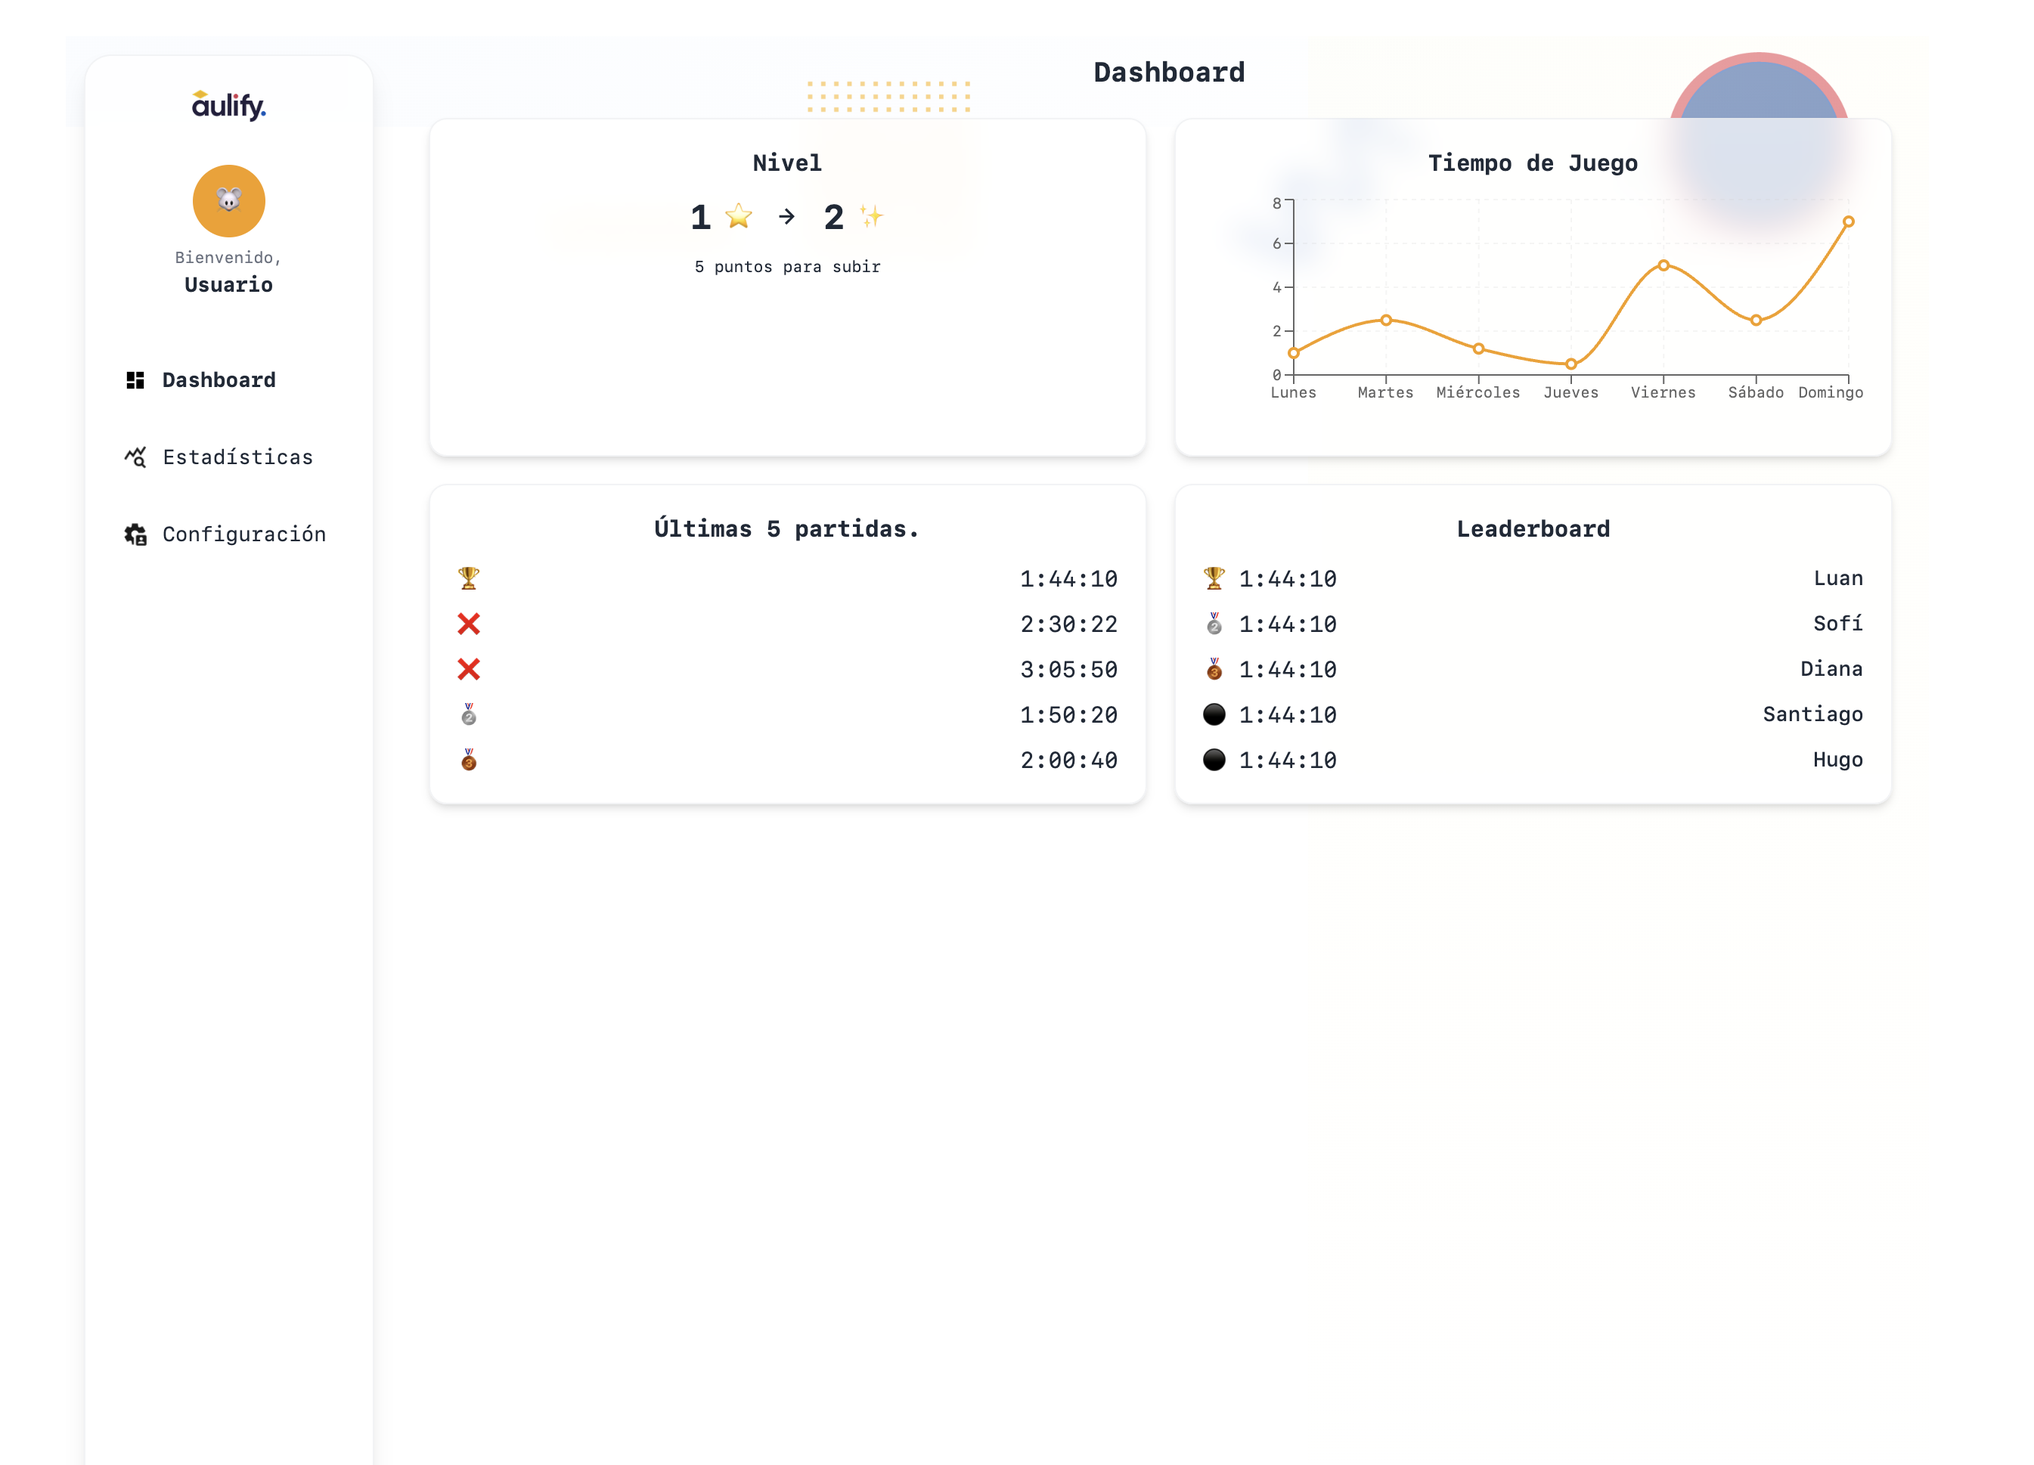
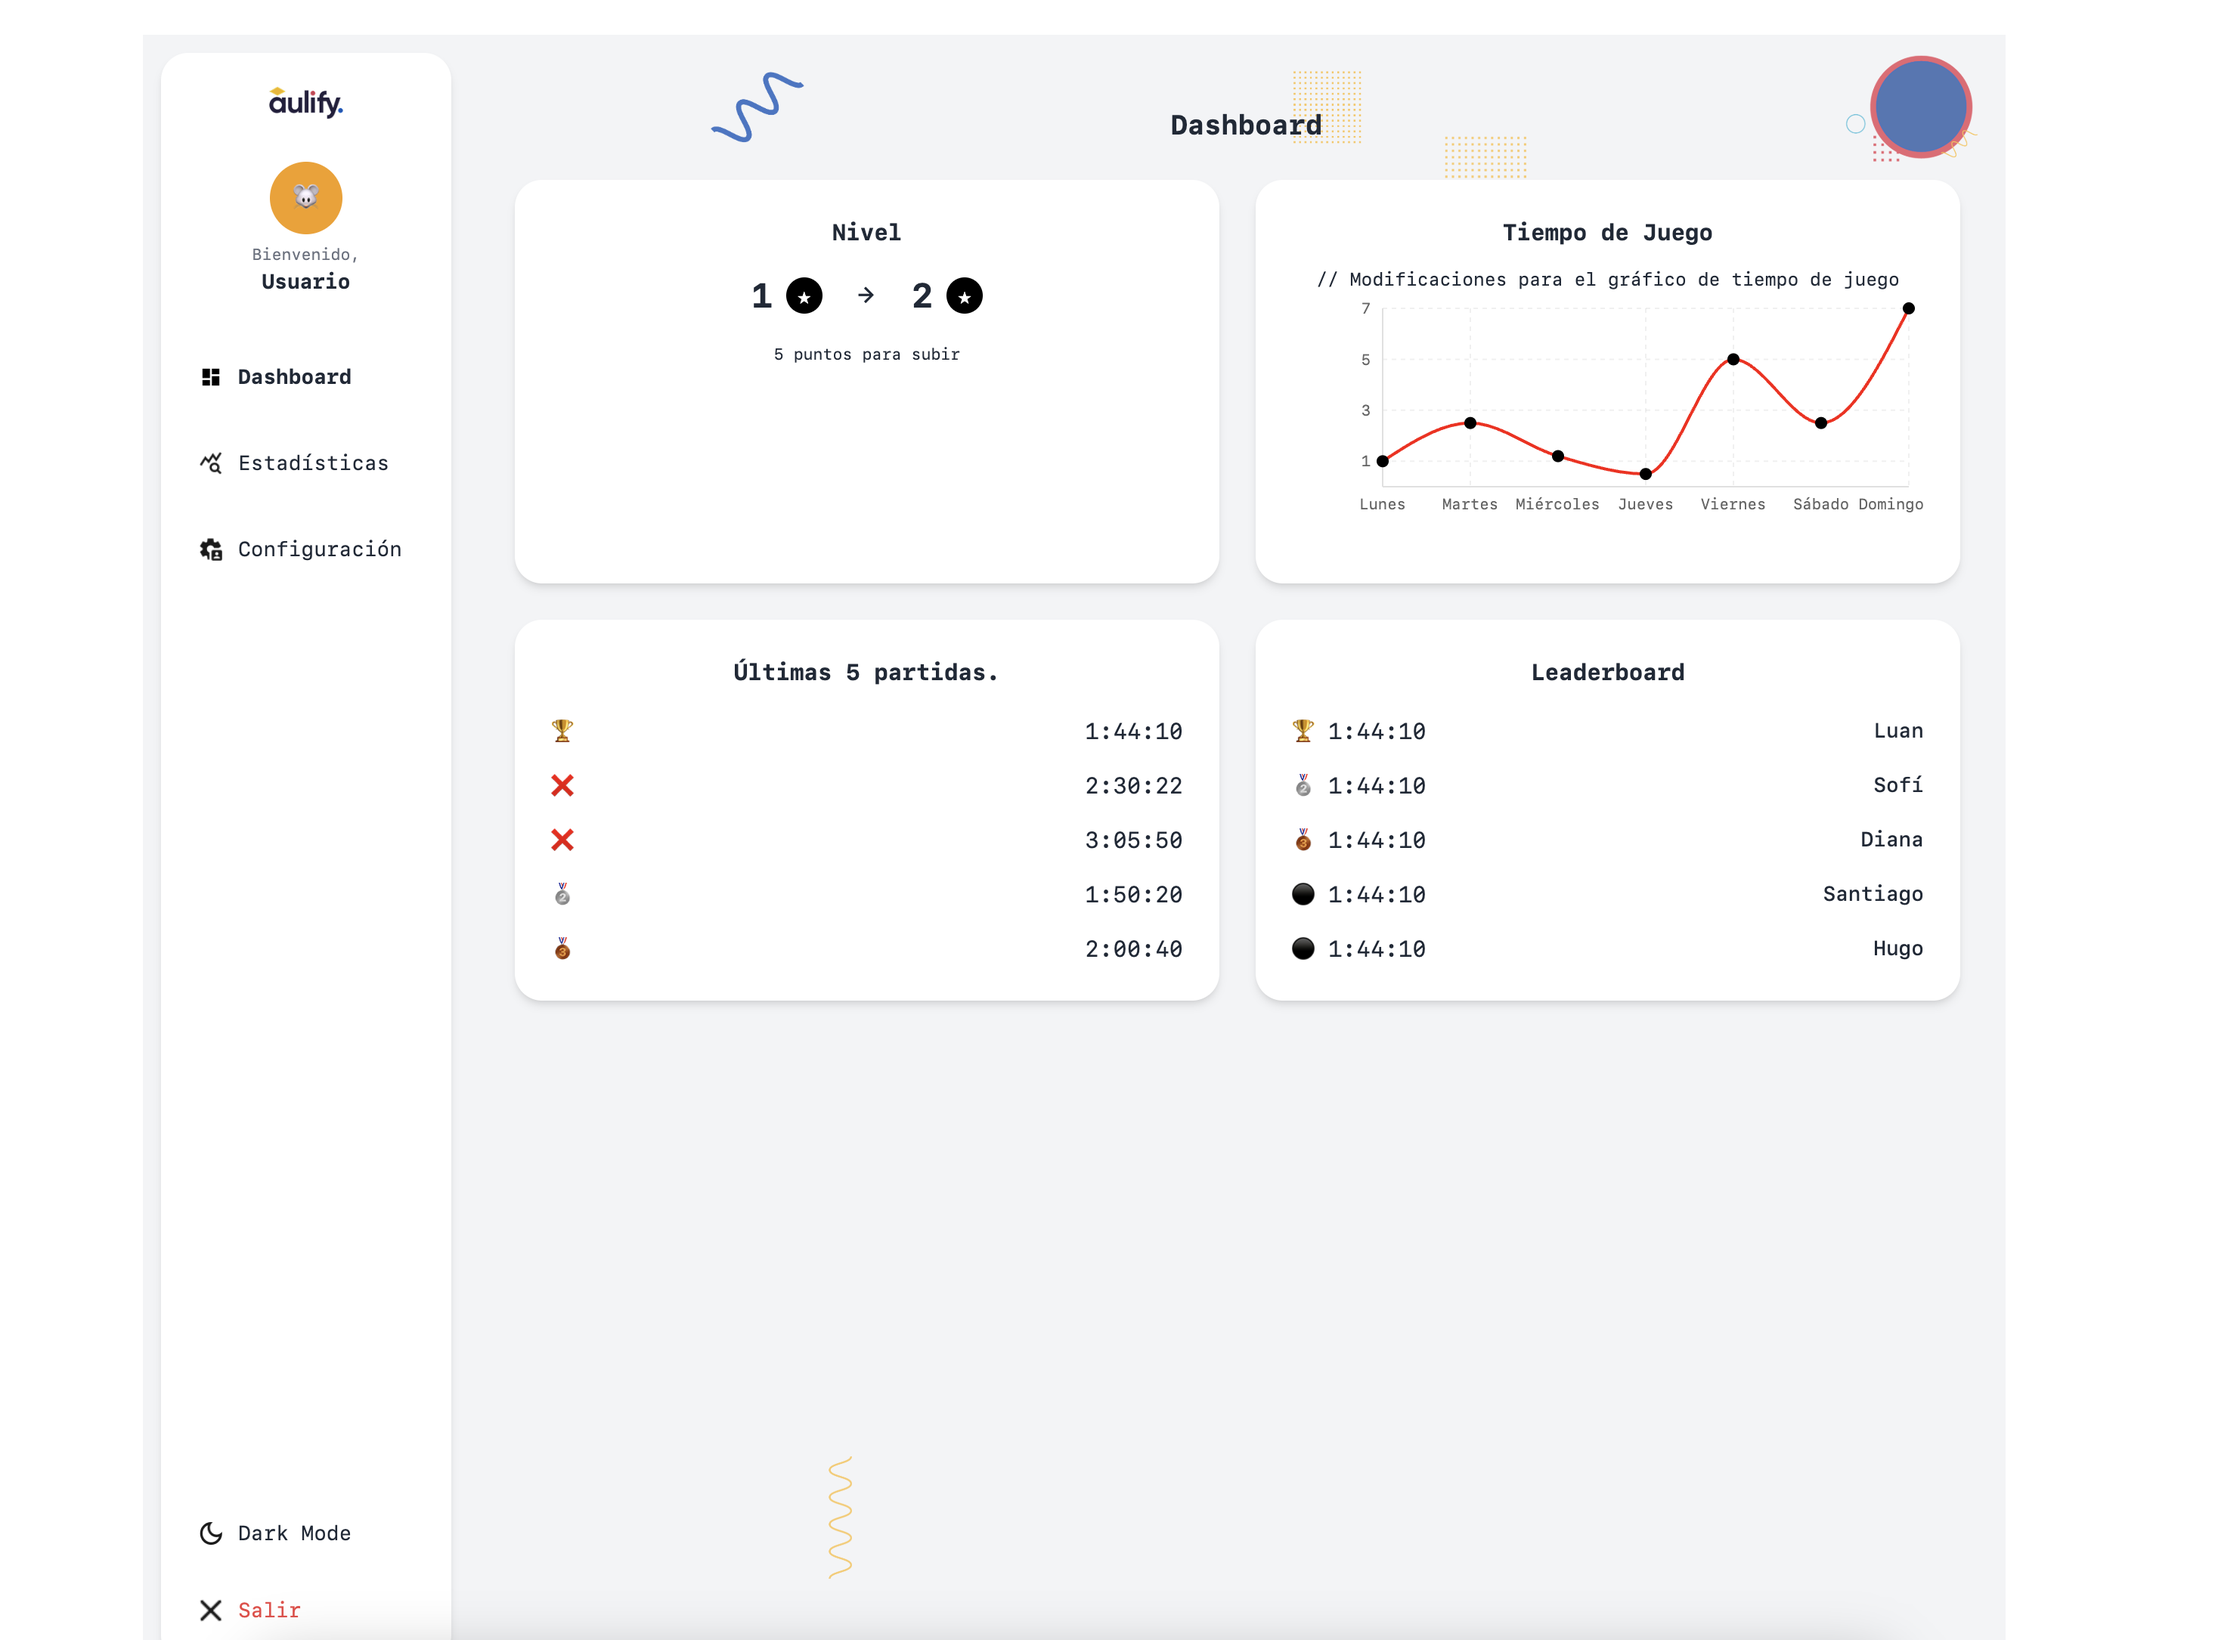
Dashboard variable Fix

diff --git a/Front/dragons-treasure/src/pages/Dashboard.jsx b/Front/dragons-treasure/src/pages/Dashboard.jsx
@@ -53,45 +53,38 @@ const Dashboard = () => {
     <div className={`h-screen flex ${darkMode ? 'bg-gray-900 text-white' : 'bg-gray-100 text-gray-800'} relative overflow-hidden`}>
       {/* Contenedor para elementos decorativos de fondo - reposicionados según el mockup */}
       <div className="absolute inset-0 overflow-hidden pointer-events-none">
-        {/* Franja superior con elementos decorativos */}
-        <div className="absolute top-0 left-0 w-full h-32 flex items-center justify-between px-4 z-0">
-          <img 
-            src={yellowWaveImg} 
-            alt="" 
-            className="w-16 h-16 object-contain opacity-80 transform -rotate-45" 
-          />
-          <img 
-            src={blueWaveImg} 
-            alt="" 
-            className="w-24 h-24 object-contain opacity-80" 
-          />
-          <img 
-            src={yellowDotsImg} 
-            alt="" 
-            className="w-20 h-20 object-contain opacity-80" 
-          />
-          <img 
-            src={blueCircleImg} 
-            alt="" 
-            className="w-32 h-32 object-contain opacity-80" 
-          />
-        </div>
-        
-        {/* Elementos decorativos adicionales distribuidos */}
+        {/* Elementos decorativos distribuidos según el mockup */}
         <img 
-          src={yellowDotsImg} 
+          src={blueWaveImg} 
           alt="" 
-          className="absolute top-20 right-1/4 w-24 h-24 object-contain opacity-70" 
+          className="absolute top-10 left-1/4 w-32 h-32 object-contain opacity-80" 
         />
         <img 
           src={blueCircleImg} 
           alt="" 
-          className="absolute top-40 right-10 w-40 h-40 object-contain opacity-60" 
+          className="absolute top-4 right-4 w-24 h-24 object-contain opacity-80" 
+        />
+        <img 
+          src={yellowDotsImg} 
+          alt="" 
+          className="absolute top-16 right-1/4 w-20 h-20 object-contain opacity-70" 
         />
         <img 
           src={yellowWaveImg} 
           alt="" 
-          className="absolute bottom-20 left-1/3 w-32 h-32 object-contain opacity-70 transform rotate-90" 
+          className="absolute top-40 left-1/3 w-24 h-24 object-contain opacity-70 transform rotate-45" 
+        />
+        
+        {/* Elementos decorativos adicionales */}
+        <img 
+          src={blueCircleImg} 
+          alt="" 
+          className="absolute bottom-20 right-10 w-40 h-40 object-contain opacity-60" 
+        />
+        <img 
+          src={yellowWaveImg} 
+          alt="" 
+          className="absolute bottom-40 left-10 w-32 h-32 object-contain opacity-70 transform -rotate-45" 
         />
       </div>
       
@@ -200,8 +193,22 @@ const Dashboard = () => {
       </div>
 
       {/* Main content - ajustado para parecerse más al mockup */}
-      <div className="flex-1 p-6 z-10 overflow-auto pt-16">
-        <h2 className="text-2xl font-bold mb-8 ml-4 font-mono">Dashboard</h2>
+      <div className="flex-1 p-6 z-10 overflow-auto">
+        {/* Título con elementos decorativos detrás */}
+        <div className="relative mb-8 ml-4">
+          <h2 className="text-3xl font-bold font-mono relative z-10">Dashboard</h2>
+          {/* Elementos decorativos específicos detrás del título */}
+          <img 
+            src={yellowDotsImg} 
+            alt="" 
+            className="absolute -top-4 right-0 w-16 h-16 object-contain opacity-70 z-0" 
+          />
+          <img 
+            src={blueCircleImg} 
+            alt="" 
+            className="absolute -top-2 -right-20 w-12 h-12 object-contain opacity-60 z-0" 
+          />
+        </div>
         
         <div className="grid grid-cols-1 md:grid-cols-2 gap-8 mx-4 max-w-screen-xl">
           {/* User Level Widget - estilizado como en el mockup */}
@@ -224,7 +231,7 @@ const Dashboard = () => {
           {/* Time Stats Graph - ajustado para parecerse al mockup */}
           <div className={`${darkMode ? 'bg-white/10 backdrop-blur-md' : 'bg-white'} p-8 rounded-3xl shadow-md`}>
             <h3 className="text-xl font-bold mb-4 font-mono">Tiempo de Juego</h3>
-            // Modificaciones para el gráfico de tiempo de juego
+
             <div className="h-56">
               <ResponsiveContainer width="100%" height="100%">
                 <LineChart

diff --git a/Front/dragons-treasure/src/pages/Login.jsx b/Front/dragons-treasure/src/pages/Login.jsx
@@ -62,8 +62,8 @@ const Login = () => {
   const relativeY = mousePosition.y - containerBounds.y;
   
   // Calculate movement factors (between -1 and 1)
-  const moveFactorX = containerBounds.width > 0 ? (relativeX / containerBounds.width) * 2 - 1 : 0;
-  const moveFactorY = containerBounds.height > 0 ? (relativeY / containerBounds.height) * 2 - 1 : 0;
+  const moveFactorX = containerBounds.width > 0 ? (relativeX / containerBounds.width) * 3 - 1 : 0;
+  const moveFactorY = containerBounds.height > 0 ? (relativeY / containerBounds.height) * 3 - 1 : 0;
 
   const handleChange = (e) => {
     const { name, value, type, checked } = e.target;
